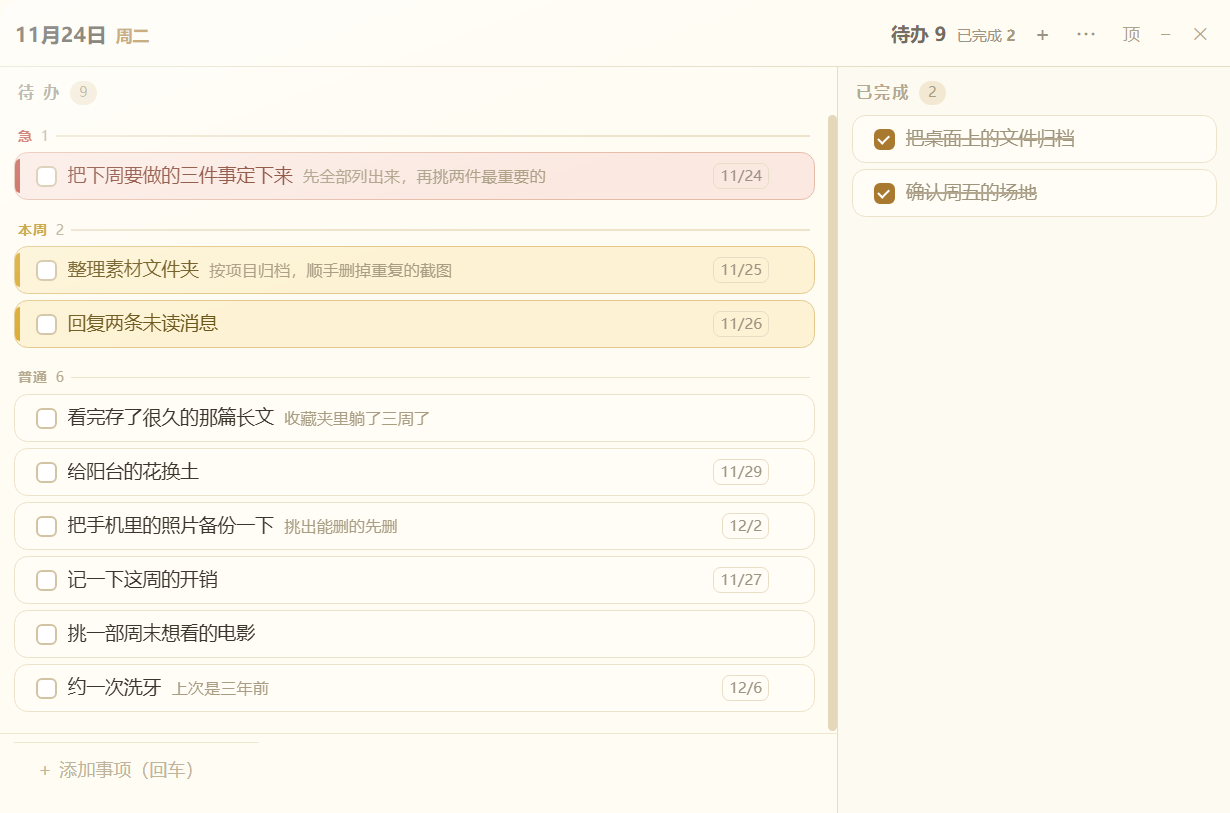
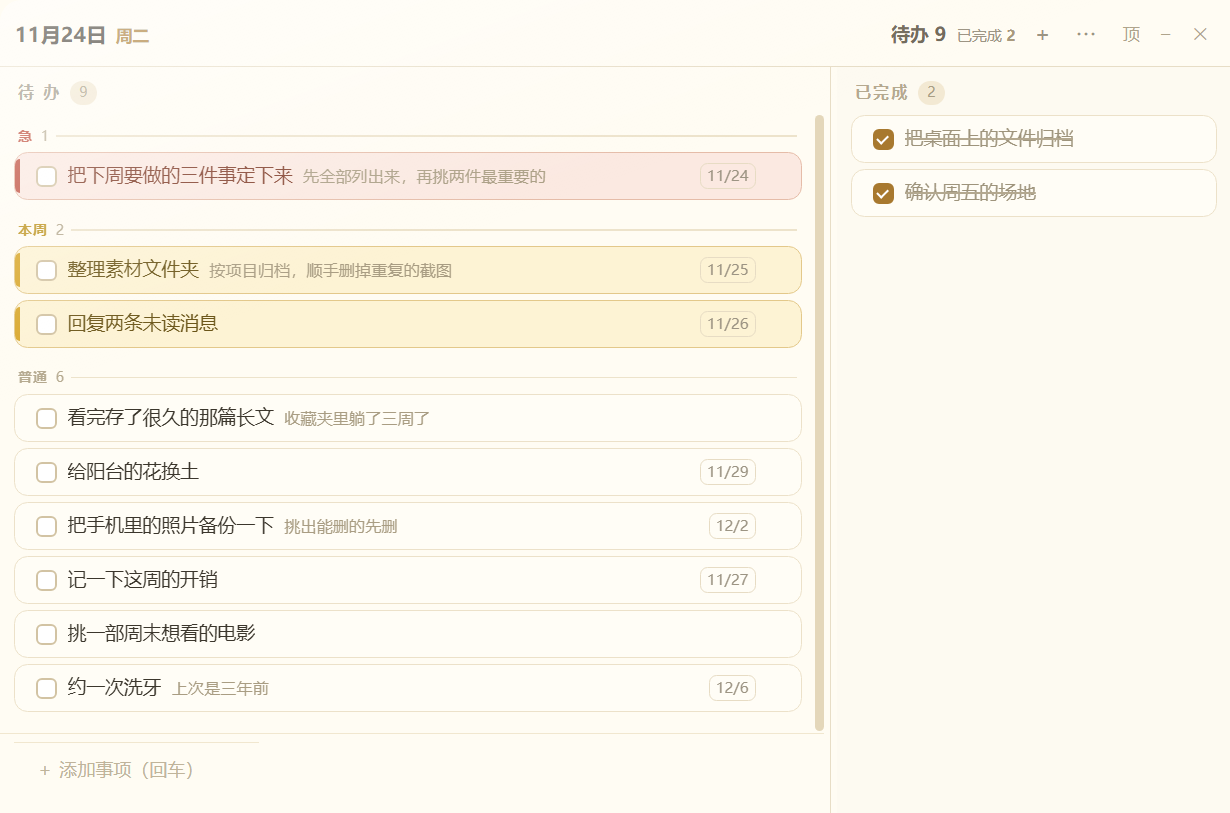
v1.1.0：两栏宽度可拖动
- 两栏之间加分隔条，按住左右拖即可分配宽度，双击恢复默认
- 宽度记在本地，下次打开保持；窗口变窄时自动收回，不会把待办栏挤没

diff --git a/src/index.html b/src/index.html
@@ -98,7 +98,29 @@ body.is-desktop .app{
 .cols{flex:1;display:flex;min-height:0;overflow:hidden}
 .col{display:flex;flex-direction:column;min-width:0;min-height:0;position:relative}
 .col-open{flex:1 1 auto}
-.col-done{flex:0 0 262px;background:#FDFAF1;border-left:1px solid var(--line)}
+.col-done{flex:0 0 var(--done-w,262px);background:#FDFAF1}
+/* 中间分隔条：按住左右拖，两栏宽度随心分 */
+.gutter{
+  flex:0 0 9px;position:relative;cursor:col-resize;
+  touch-action:none;background:transparent;z-index:5;
+}
+.gutter::before{
+  content:"";position:absolute;left:4px;top:0;bottom:0;width:1px;
+  background:#E3D6B8;
+  transition:left .12s,width .12s,background .12s;
+}
+.gutter:hover::before{left:3px;width:3px;background:#D9C89F}
+.gutter.dragging::before{left:3px;width:3px;background:#C9A227}
+/* 悬停时冒出一列小抓点，暗示「这里能拖」 */
+.gutter::after{
+  content:"";position:absolute;left:3px;top:calc(50% - 14px);
+  width:3px;height:3px;border-radius:50%;background:#C6B592;
+  box-shadow:0 6px 0 #C6B592,0 12px 0 #C6B592;
+  opacity:0;transition:opacity .15s;
+}
+.gutter:hover::after,.gutter.dragging::after{opacity:1}
+/* 拖动时整窗换光标，避免经过卡片时闪成抓手 */
+body.resizing,body.resizing *{cursor:col-resize!important;user-select:none!important}
 .col-head{
   display:flex;align-items:center;gap:6px;padding:9px 12px 7px;
   flex:0 0 auto;user-select:none;
@@ -337,6 +359,7 @@ body.is-dragging .card{cursor:grabbing}
         <div class="col-body" id="bodyOpen" data-kind="open"></div>
         <div class="addRow" id="addRowBox"></div>
       </section>
+      <div class="gutter" id="gutter" title="左右拖动调整两栏宽度 · 双击恢复默认"></div>
       <section class="col col-done">
         <div class="col-head">
           <span class="col-title">已完成</span>
@@ -1402,6 +1425,80 @@ $("#fileInput").addEventListener("change", (e) => {
 /* ============ 顶部交互 ============ */
 $("#menuBtn").onclick = (e) => { e.stopPropagation(); openMainMenu(e.currentTarget); };
 $("#quickAdd").onclick = quickAdd;
+
+/* ============ 两栏宽度：中间分隔条可拖 ============ */
+const SPLIT_KEY = "qiqi-split-v1";
+const MIN_DONE = 152;   /* 已完成栏最窄也要放得下一行字 */
+const MIN_OPEN = 210;   /* 待办栏同理 */
+
+function clampDone(w) {
+  const cols = $(".cols");
+  if (!cols) return w;
+  const boxW = cols.getBoundingClientRect().width;
+  /* 布局还没算出来（宽 0）时不要误判成超窄窗口 */
+  if (!boxW || boxW < 200) return Math.max(MIN_DONE, Math.round(w));
+  const max = Math.max(MIN_DONE, boxW - MIN_OPEN - 9);
+  return Math.round(Math.max(MIN_DONE, Math.min(max, w)));
+}
+function setDoneW(w) {
+  document.documentElement.style.setProperty("--done-w", clampDone(w) + "px");
+}
+function curDoneW() {
+  const v = parseFloat(getComputedStyle(document.documentElement).getPropertyValue("--done-w"));
+  return isNaN(v) ? 0 : v;
+}
+
+(function initSplit() {
+  const g = $("#gutter");
+  if (!g) return;
+
+  /* 恢复上次拖出来的宽度（等首屏布局算完再套，免得被当成超窄窗口压到下限） */
+  const saved = Number(localStorage.getItem(SPLIT_KEY));
+  if (saved > 0) requestAnimationFrame(() => setDoneW(saved));
+
+  let dragging = false;
+
+  g.addEventListener("pointerdown", (e) => {
+    if (e.button !== 0) return;
+    e.preventDefault();
+    dragging = true;
+    g.classList.add("dragging");
+    document.body.classList.add("resizing");
+    try { g.setPointerCapture(e.pointerId); } catch (err) {}
+  });
+
+  g.addEventListener("pointermove", (e) => {
+    if (!dragging) return;
+    const r = $(".cols").getBoundingClientRect();
+    /* 减掉分隔条的一半：光标压在条中心时，宽度不跳变 */
+    const gw = g.getBoundingClientRect().width;
+    setDoneW(r.right - (e.clientX + gw / 2));
+  });
+
+  const stop = (e) => {
+    if (!dragging) return;
+    dragging = false;
+    g.classList.remove("dragging");
+    document.body.classList.remove("resizing");
+    try { g.releasePointerCapture(e.pointerId); } catch (err) {}
+    const px = curDoneW();
+    if (px) localStorage.setItem(SPLIT_KEY, String(Math.round(px)));
+  };
+  g.addEventListener("pointerup", stop);
+  g.addEventListener("pointercancel", stop);
+
+  /* 双击回到默认的 262px */
+  g.addEventListener("dblclick", () => {
+    localStorage.removeItem(SPLIT_KEY);
+    document.documentElement.style.removeProperty("--done-w");
+  });
+
+  /* 窗口变窄时把宽度收回合法范围，避免待办栏被挤没 */
+  window.addEventListener("resize", () => {
+    const px = curDoneW();
+    if (px) setDoneW(px);
+  });
+})();
 
 function quickAdd() {
   const inp = document.querySelector("#addRowBox .addInput");

diff --git a/README.md b/README.md
@@ -18,6 +18,7 @@ Windows 桌面小工具，一个独立窗口，默认置顶，可以随手拖到
 ## 特性
 
 - **两栏，拖一下就换状态**：左边待办，右边已完成。拖过去就算完成，拖回来就恢复，勾选框也能点。
+- **中间的缝能拖**：按住两栏之间的分隔条左右拖，想让哪边宽就哪边宽；双击回到默认。宽度会记住，下次打开还是这个分配。
 - **优先级用颜色分层**：卡片按「急 / 本周 / 普通」三段自上而下排列，整张卡染色，扫一眼就知道先做哪件。
 - **单行卡片**：一条只占一行，事项和备注同一行显示，最长的那条自动省略。二十条一屏也放得下。
 - **一直是桌面最上层**：默认置顶，顶栏的「顶」按钮可随时取消。
